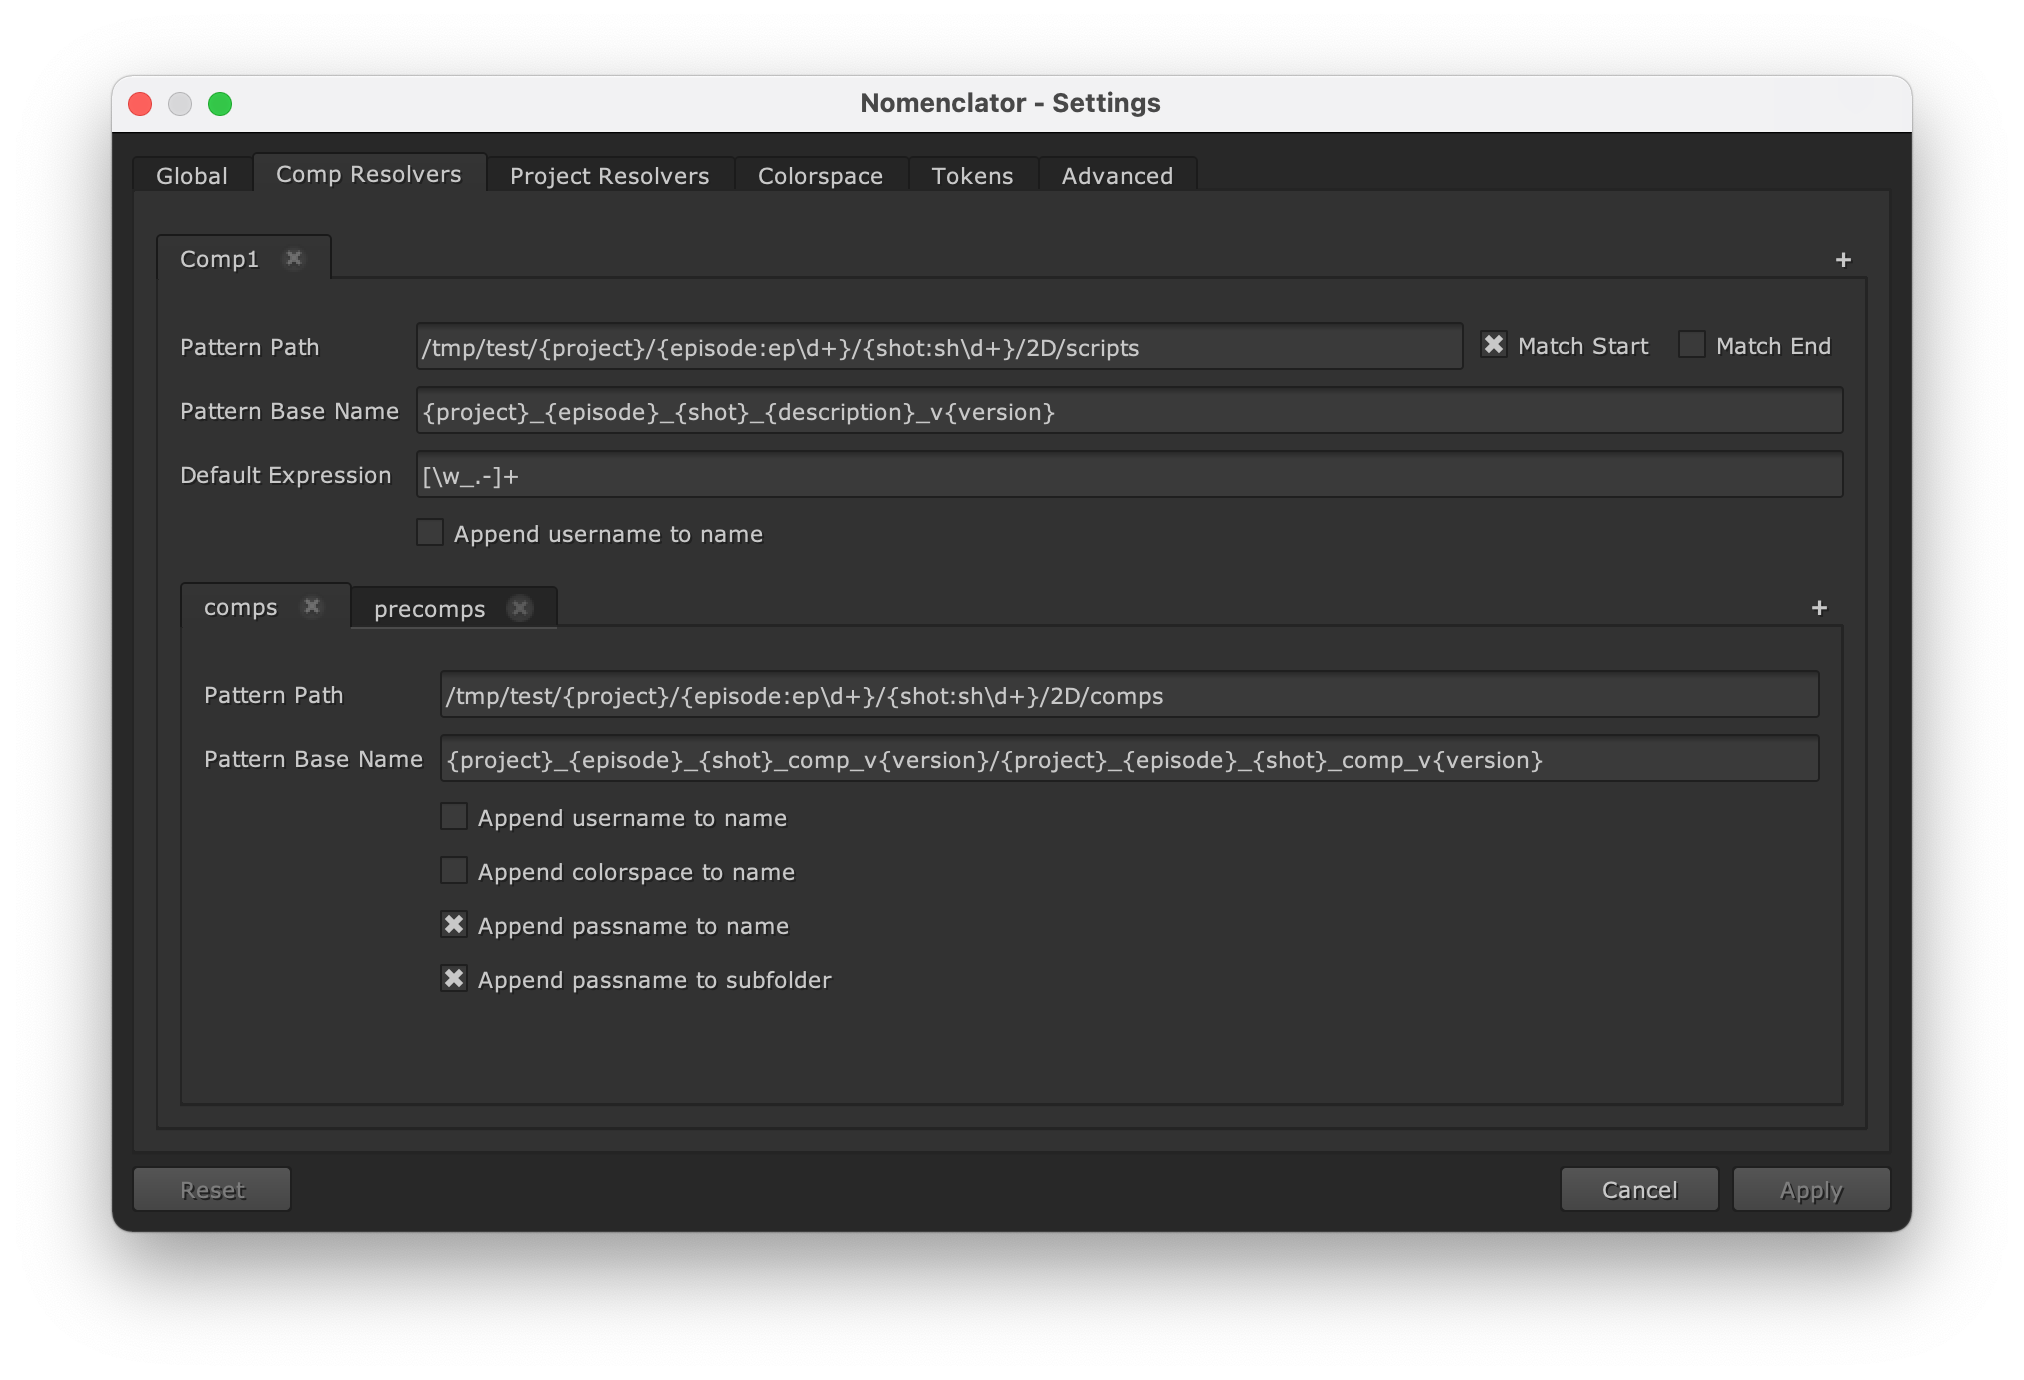
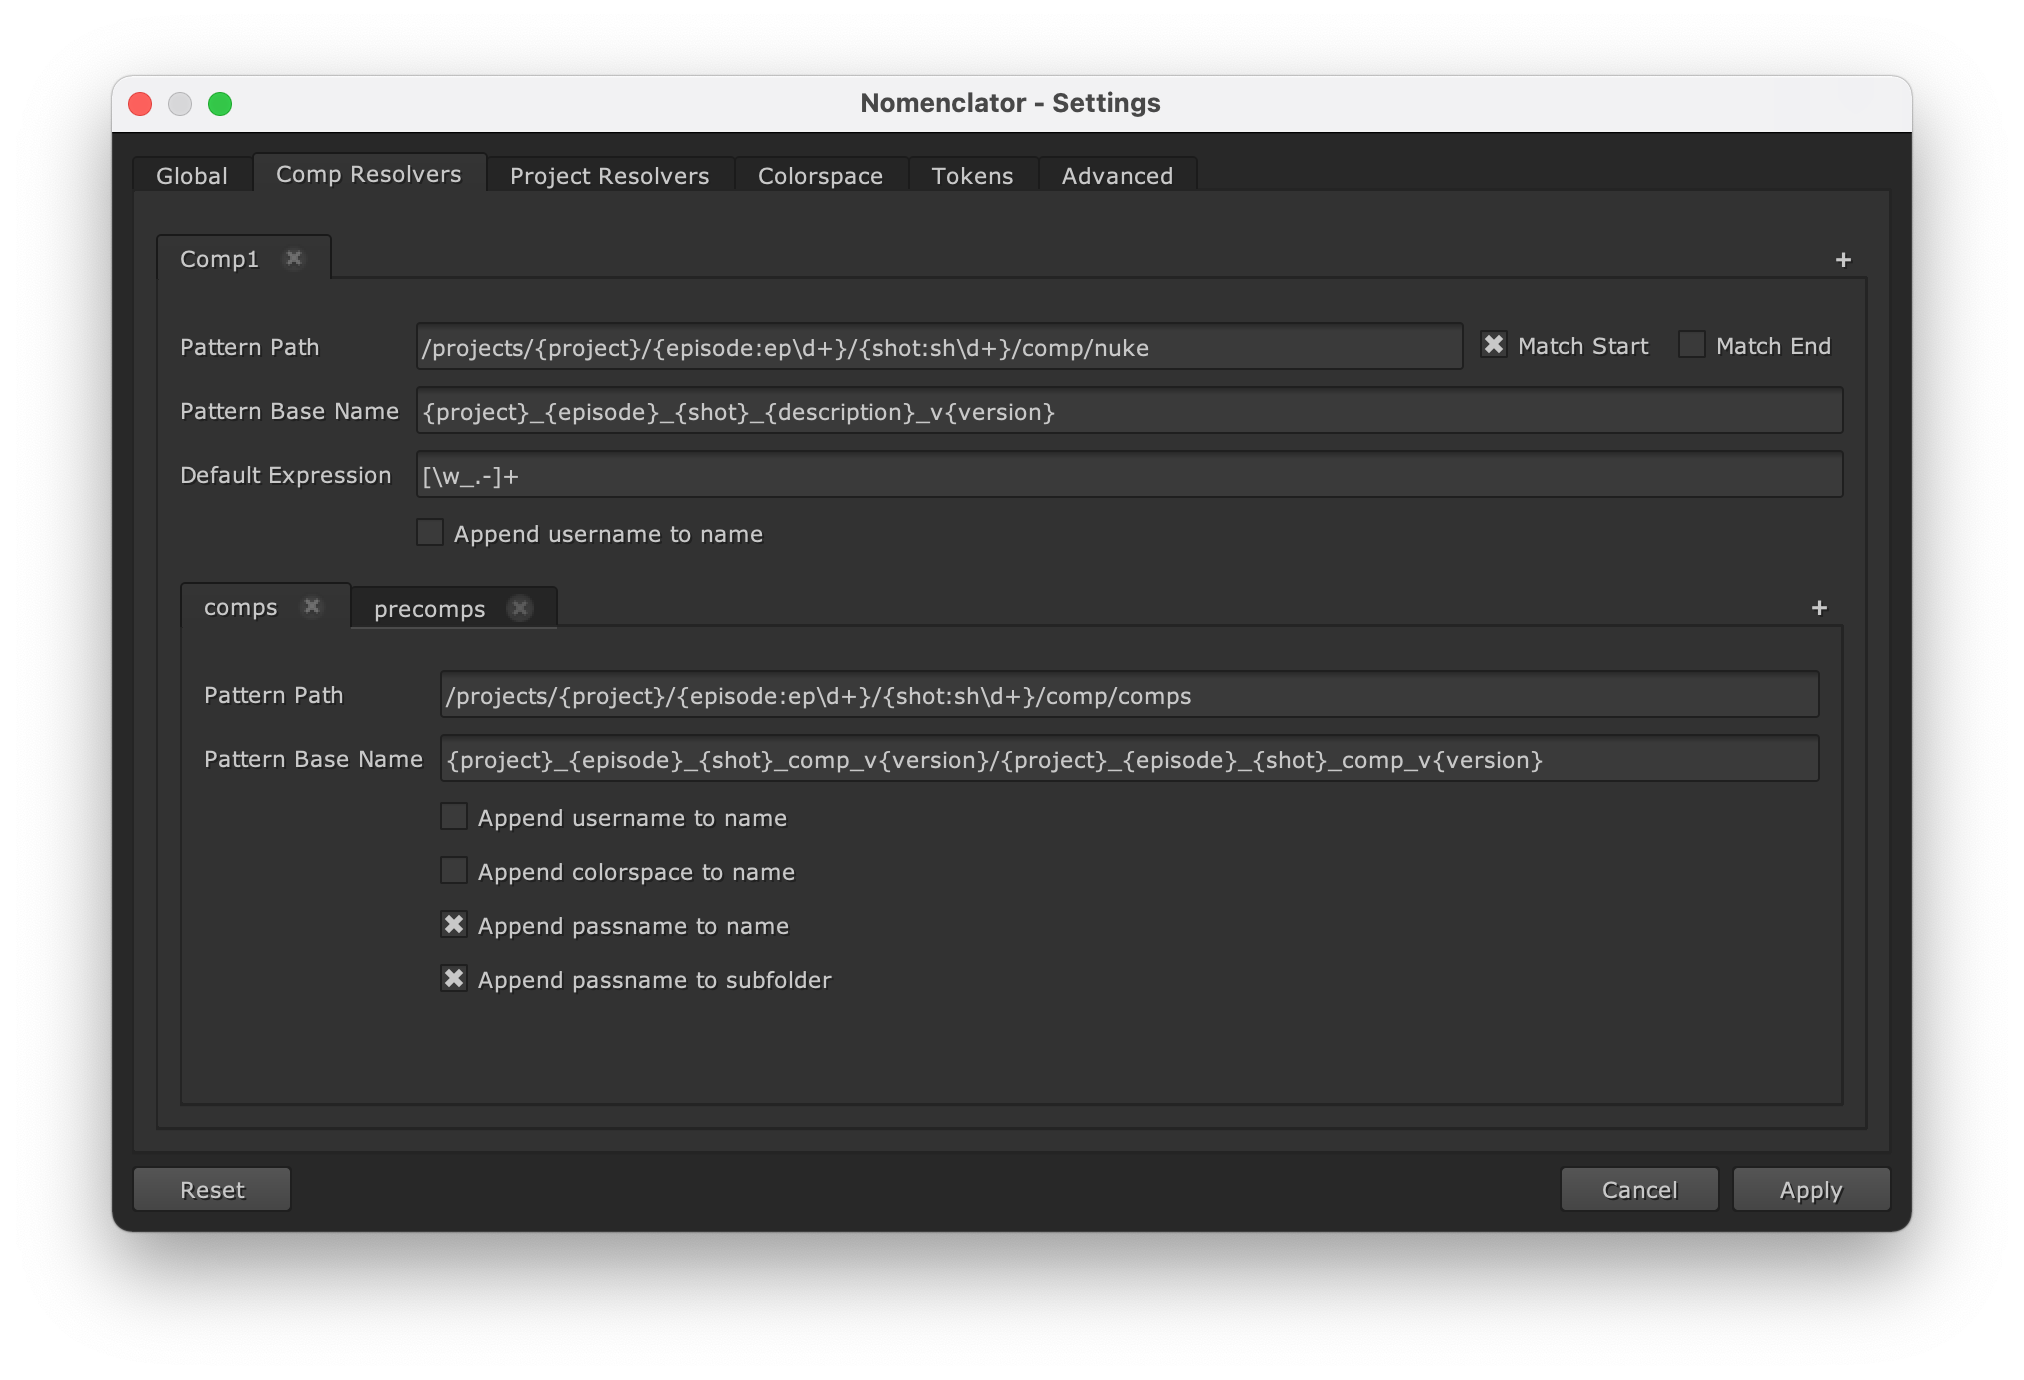
Update tutorial

diff --git a/doc/tutorial.rst b/doc/tutorial.rst
@@ -13,39 +13,37 @@ and you are working within the following folder structure::
     /projects/
      |- drWho
          |- build
-         |- edit
+         |- conform
          |   |- hiero
          |- ep001
              |- sh001
-                 |- 2D
-                     |- scripts
+                 |- comp
+                     |- nuke
                      |- comps
                      |- precomps
 
+The :term:`Compositing` tasks are broken down in episodes and shots. For each shot,
+the :term:`Nuke` scene files must be saved into the :file:`comp/nuke` folders.
+For instance::
 
-Defining the composition template
----------------------------------
+    /projects/drWho/ep001/sh001/comp/nuke
 
-The :term:`Nuke` composition scene files should be saved into the :file:`2D/scripts` folders and
-be named as follows::
+There is one :term:`Conforming` task for the entire project. Therefore, the :term:`Hiero`
+project files must be saved at the project level, within the :file:`conform/hiero`
+folder::
 
-    {project}_{episode}_{shot}_{description}_v{version}.nk
+    /projects/drWho/conform/hiero
 
-The ``project``, ``episode`` and ``shot`` tokens should be guessed from the folder
-structure. For instance, let's consider the following location::
+Instead of hard-coding the project name, we would like to define a naming convention which could
+easily be adapted to a new project which would adopt a similar structure.
 
-    /projects/drWho/ep001/sh001/2D/scripts
+.. _tutorial/comp_template:
 
-The resulting scene files should be named::
+Defining a comp template
+------------------------
 
-    drWho_ep001_sh001_{description}_v{version}.nk
-
-The value for the ``description`` token can be given via the comp manager
-dialog which is initiated with the :ref:`configuration/global/default-description`
-option.
-
-The value for ``version`` will be automatically set to the next version, based on the
-other file saved in the same folder.
+Let's create a :ref:`template <configuration/template>` to define the naming
+convention for the :term:`Compositing` tasks.
 
 Open the Setting Dialog and click on the "Comp Resolvers" tab to create the template.
 
@@ -61,45 +59,66 @@ is automatically named "Comp1".
     then be able to type a new name and click enter to apply it. We will
     keep the automatic "Comp1" name in this tutorial.
 
-The :ref:`configuration/template/pattern-path` value should be::
+We want the :term:`Nuke` composition scene files to be named in the form of::
 
-    /projects/{project}/{episode}/{shot}/2D/scripts
+    drWho_ep001_sh001_comp_v001.nk
+
+Therefore, the :ref:`configuration/template/pattern-base` value should be::
+
+    {project}_{episode}_{shot}_{description}_v{version}
+
+The ``project``, ``episode`` and ``shot`` tokens should be :ref:`extracted <token/extracted>` from
+the folder structure. For instance, let's consider the following location::
+
+    /projects/drWho/ep001/sh001/comp/nuke
+
+The resolved tokens should be:
+
+==========  ==============
+Token Name  Resolved Value
+==========  ==============
+project     drWho
+episode     ep001
+shot        sh001
+==========  ==============
+
+Therefore, the :ref:`configuration/template/pattern-path` value should be::
+
+    /projects/{project}/{episode}/{shot}/comp/nuke
 
 To prevent any matching error, we can be even more specific and define
 custom regular expression for the ``episode`` and ``shot`` tokens::
 
-    /projects/{project}/{episode:ep\d+}/{shot:sh\d+}/2D/scripts
-
+    /projects/{project}/{episode:ep\d+}/{shot:sh\d+}/comp/nuke
 
 .. note::
 
     We can uncheck the :ref:`configuration/template/match-end` box so that the
-    naming convention can be applied to scripts saved in sub-folders, for
+    naming convention can be applied to scenes saved in sub-folders, for
     instance::
 
-        /projects/drWho/ep001/sh001/2D/scripts/sub-1/sub-2
+        /projects/drWho/ep001/sh001/2D/nuke/sub-1/sub-2
 
-Then we can define the :ref:`configuration/template/pattern-base` value::
-
-    {project}_{episode}_{shot}_{description}_v{version}
+This is how the settings dialog should look like:
 
 .. image:: ./image/comp-resolver-2.png
     :alt: Comp Resolver with one template
 
-Defining the output templates
------------------------------
+Defining output templates
+-------------------------
 
-We need to define two destinations for render outputs:
+Let's now create two :ref:`output templates <configuration/output_template>` to define the naming
+convention for the render outputs for the comp template previously created:
 
-* Default compositions should be rendered in the :file:`2D/comps` folder and be
-  named as follows::
+* Default renders should be saved in the :file:`comp/comps` folder and be
+  named in the form of::
 
-    {project}_{episode}_{shot}_comp_v{version}/{project}_{episode}_{shot}_comp_v{version}.%03d.exr
+    drWho_ep001_sh001_comp_v001/drWho_ep001_sh001_comp_v001.%03d.exr
 
-* Precomps should be rendered in the :file:`2D/precomps` folder and be
-  named as follows::
+* Precomps renders should be saved in the :file:`comp/precomps` folder and be
+  named in the form of::
 
-    {project}_{episode}_{shot}_precomp_v{version}/{project}_{episode}_{shot}_precomp_v{version}.%03d.exr
+    drWho_ep001_sh001_precomp_v001/drWho_ep001_sh001_precomp_v001.%03d.exr
 
 Note that we also want to create subfolders for each outputs to better organize the image
 sequences.
@@ -110,29 +129,35 @@ output templates which will be automatically named "Output1" and "Output2".
 
 Double click on the tab labels to rename them "comps" and "precomps".
 
-The :ref:`configuration/output_template/pattern-path` value for
-"comps" should be::
-
-    /projects/{project}/{episode:ep\d+}/{shot:sh\d+}/2D/comps
-
-The :ref:`configuration/output_template/pattern-path` value for
-"precomps" should be::
-
-    /projects/{project}/{episode:ep\d+}/{shot:sh\d+}/2D/precomps
-
-The :ref:`configuration/output_template/pattern-base` value for "comps"
-should be::
+The :ref:`configuration/output_template/pattern-base` values for "comps" and "precomps"
+should be respectively::
 
     {project}_{episode}_{shot}_comp_v{version}/{project}_{episode}_{shot}_comp_v{version}
-
-And finally, the :ref:`configuration/output_template/pattern-base` value for
-"precomps" should be::
-
     {project}_{episode}_{shot}_precomp_v{version}/{project}_{episode}_{shot}_precomp_v{version}
 
-We will also check the "append passname to name" and "append passname to subfolder"
-boxes for "comps" so that we can automatically add passname to the subfolder
-and the base name.
+.. note::
+
+    We could also have used a single convention for both outputs by using the
+    :ref:`token/default/description` token::
+
+        {project}_{episode}_{shot}_{description}_v{version}/{project}_{episode}_{shot}_{description}_v{version}
+
+The :ref:`configuration/output_template/pattern-path` values for "comps" and "precomps"
+should be respectively::
+
+    /projects/{project}/{episode:ep\d+}/{shot:sh\d+}/comp/comps
+    /projects/{project}/{episode:ep\d+}/{shot:sh\d+}/comp/precomps
+
+.. warning::
+
+    New tokens are currently not :ref:`extracted <token/extracted>` from the
+    :ref:`configuration/output_template/pattern-path` of output templates.
+
+We will also check the :ref:`configuration/output_template/append-passname-to-name` and
+:ref:`configuration/output_template/append-passname-to-subfolder` boxes for "comps" so that we
+can automatically add the :ref:`token/default/passname` token to the subfolder and the base name.
+
+This is how the settings dialog should look like:
 
 .. image:: ./image/comp-resolver-3.png
     :alt: Comp Resolver with two output templates
